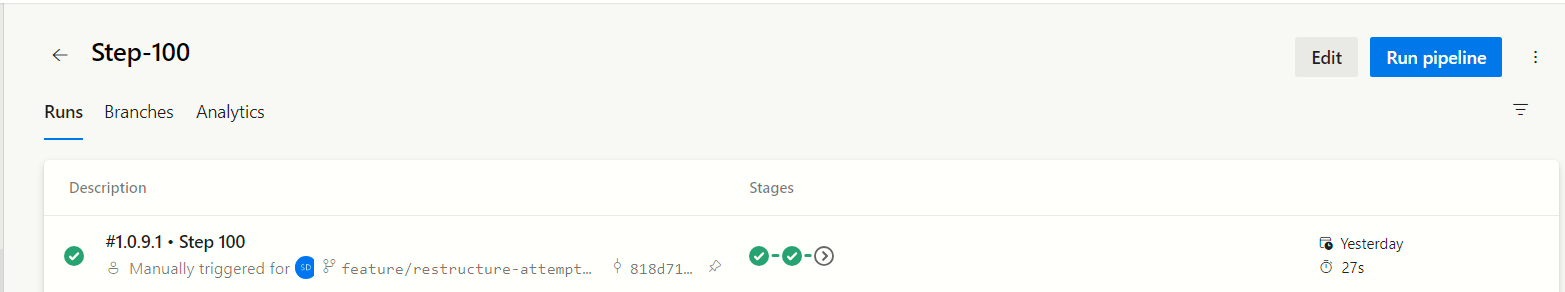
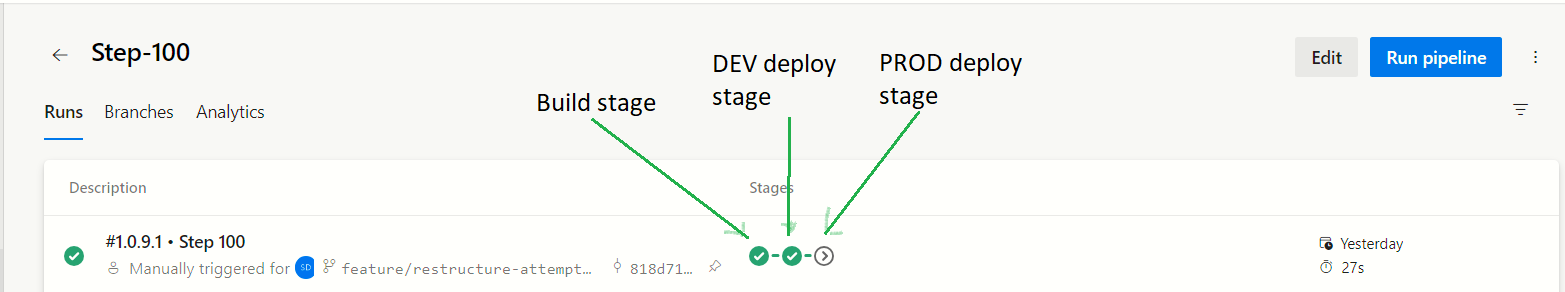
Step 100 - notes.md, picture update

diff --git a/ci-cd-stages-demo/notes.md b/ci-cd-stages-demo/notes.md
@@ -3,7 +3,7 @@
 # Objective
 Azure Devops in 2023 has gained wide popularity in the developer community. Azure Devops is a complete suite of tools to manage your software development lifecyle.  The self-service CI/CD features of Azure Devops is a very powerful automation tool that should not be ignored. You could be deploying web apps/services to the Cloud or publishing desktop applications or an in house data science team which wants to deploy its Python files to a job server .   YAML based pipelines of Azure Devops is a powerful CI/CD orchestration tool. However, it would be an understatement to conclude that this is an easy tool. I have found that authoring YAML based Azure Devops CI/CD pipelines can be time consuming and hard to troubleshoot at times. The lesson that I have learnt - keep the CI/CD simple and linear!  What do I mean by linear? Build stage, followed by a Dev deployment and then an Uat deployment and finally ending in a Prod deployment.
 
-In this article I have demonstrated how to make the simplest build pipeline and progressively add more steps to it.  **Remember** - CI/CD is a means to an end - not an end by iteself. The real goal is to deliver software which solves end user problems.
+In this article I have demonstrated how to make the simplest build pipeline and progressively add more steps to it.  **Remember** - CI/CD is a means to an end - not an end by iteself. The end goal is to deliver software which solves end user problems.
 
 ---
 
@@ -22,7 +22,7 @@ https://dev.azure.com/docxreview/devops001/_build?definitionId=8
 
 #### What do we want to achieve ?
 
-- One **main YAML** which is the foundation for the one and only 1 CI/CD pipeline which implements both Build and Deploy roles
+- One **main YAML** which is the foundation for the one and only one CI/CD pipeline which implements both Build and Deploy roles
 - Split into stages. One stage for **Build** and 2 subsequent stages for  **DEV Deployment** and **PROD Deployment** )
 - Using 2 YAML templates. One for **Build** and the other for **Deploy**
 
@@ -34,13 +34,13 @@ https://dev.azure.com/docxreview/devops001/_build?definitionId=8
 ```
     CICD.YML
         |
-        |----BUILD ------------> BUILD.YAML
+        |----BUILD ------------> template=>BUILD.YAML
         |
         |
-        |----DEV_RELEASE ------> RELEASE.YAML
+        |----DEV_RELEASE ------> template=>RELEASE.YAML
         |
         |
-        |----PROD_RELEASE -----> RELEASE.YAML
+        |----PROD_RELEASE -----> template=>RELEASE.YAML
         |
         |
 ```
@@ -84,7 +84,7 @@ stages:
 ```
 
 #### Build output
-
+In the following illustration we can see the 3 stages. The **Build** and **DEV Deploy** are indicated in green. Whereas the **PROD Deploy** has not yet started because we have applied a condition on the branch being **master**.
 
 ![Alt text](docs/images/step100-devops-view.png)
 
